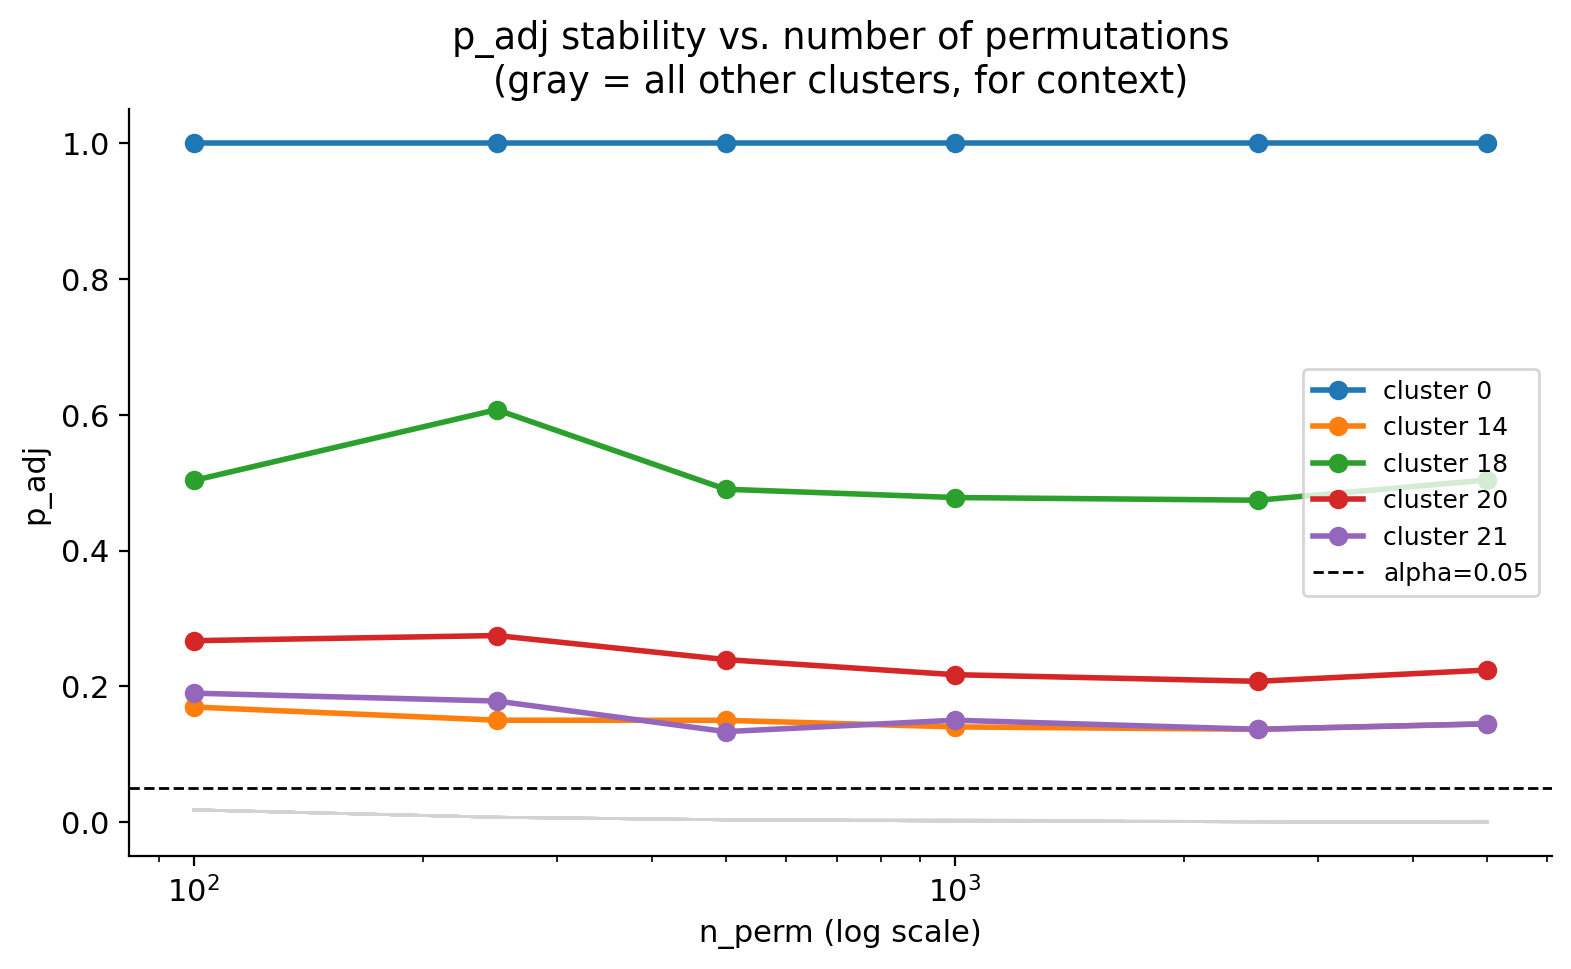
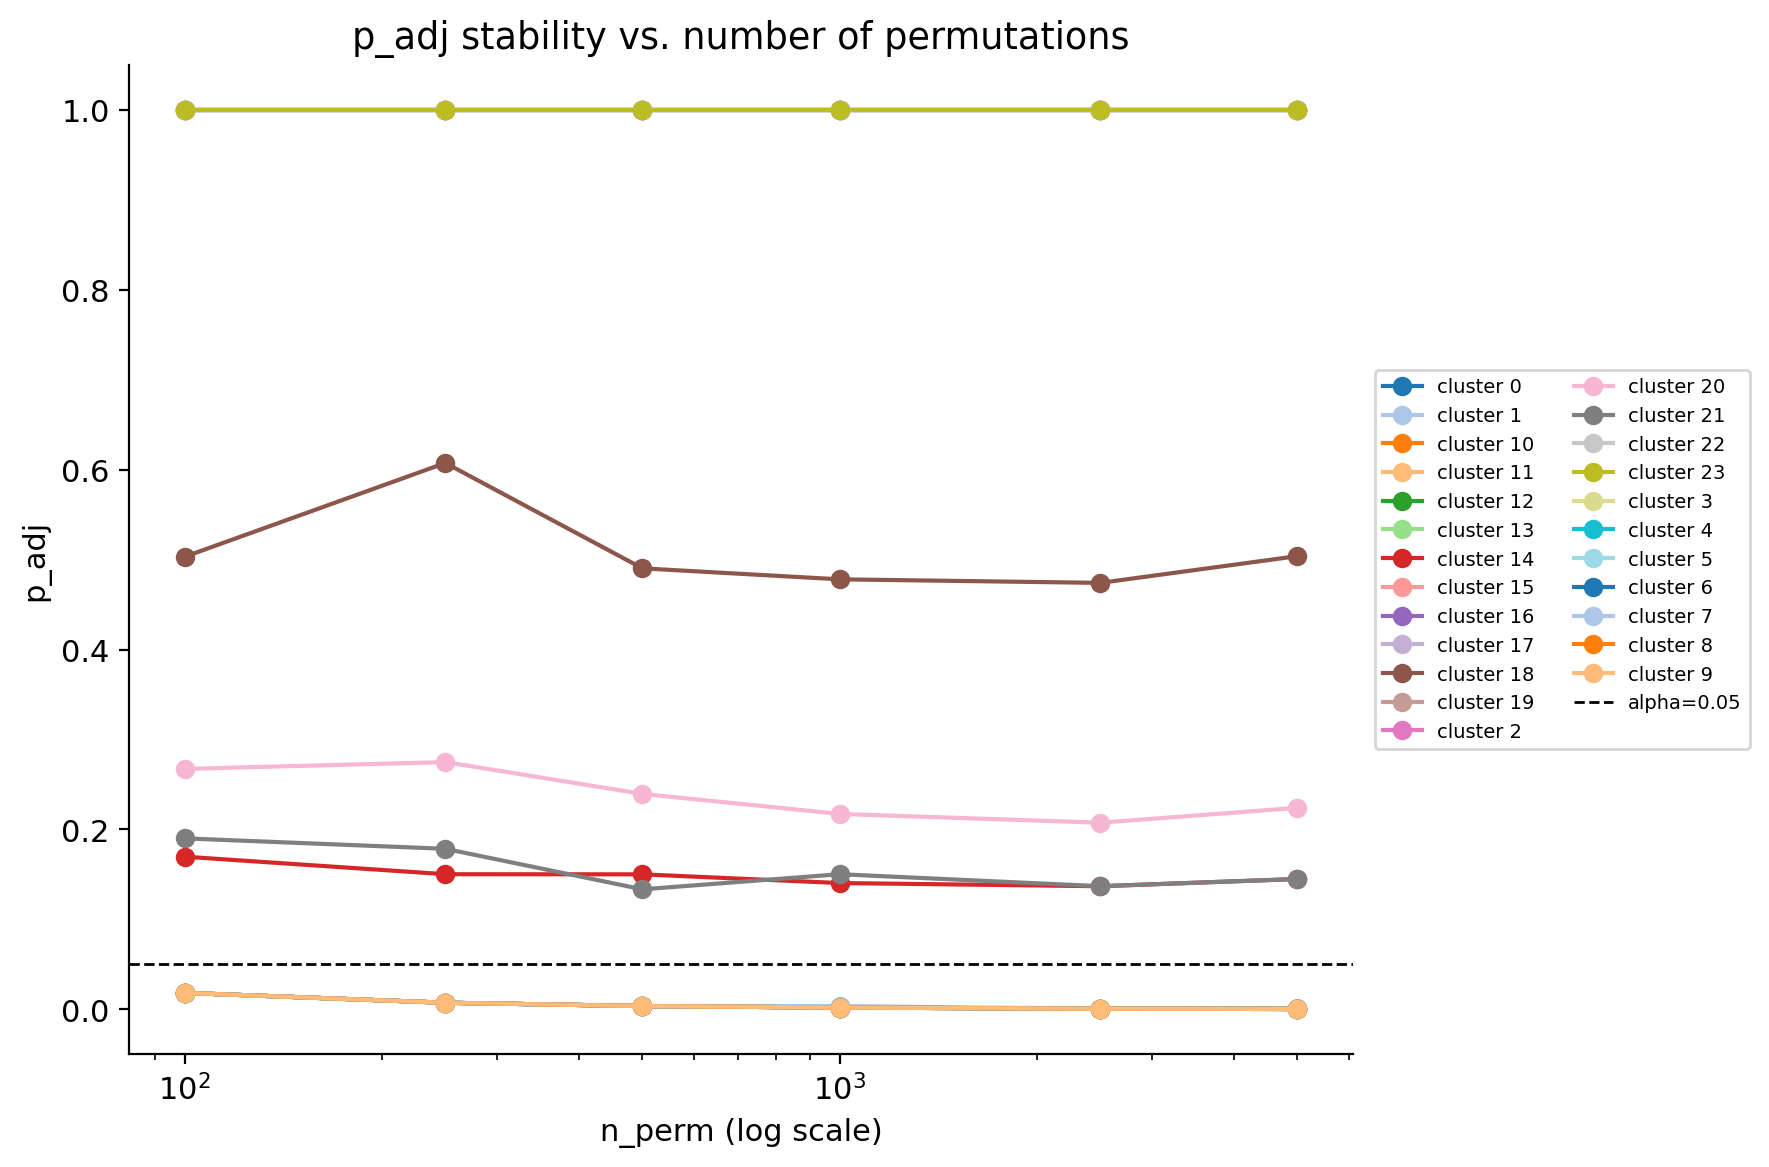
Fixed figures

Changed region(s): [[0.0, 0.0, 0.9669, 0.9907], [0.1871, 0.3096, 0.9981, 0.6502]]

diff --git a/results/methods/global_vs_pairwise.py b/results/methods/global_vs_pairwise.py
@@ -4,27 +4,28 @@ using the finalized default parameters (lam=0.3, resolution=1.5).
 """
 
 from __future__ import annotations
-
+ 
 import os
-
+ 
 import matplotlib.pyplot as plt
 import numpy as np
 import pandas as pd
-
+ 
 from spatialsubtypes import augment_features, build_spatial_graph, cluster_leiden
 from spatialsubtypes.validate import restrict_to_target, spatial_validate
 from results.shared import FIGURES_ROOT, SPATIAL_KEY, get_target_mask, load_full_tissue, savefig
-
+ 
 GRAPH_KWARGS = dict(mode="delaunay", decay=None)
 LAM = 0.3
-RESOLUTION = 1.5
+RESOLUTION = 1.5 
 N_PERM = 1000
-
+ALPHA = 0.05
+ 
 def main():
     adata = load_full_tissue()
     target_mask = get_target_mask(adata)
     print(f"Target population: {target_mask.sum()} macrophage bins")
-
+ 
     W_full = build_spatial_graph(adata, spatial_key=SPATIAL_KEY, **GRAPH_KWARGS)
     reference_expression = augment_features(
         adata, W_full, lam=0.0, target_mask=target_mask, key_added="ref"
@@ -32,9 +33,9 @@ def main():
     X_aug = augment_features(adata, W_full, lam=LAM, target_mask=target_mask, key_added="main")
     raw_labels = cluster_leiden(X_aug, resolution=RESOLUTION)
     print(f"Raw clustering: {len(set(raw_labels))} clusters")
-
+ 
     W_target = restrict_to_target(W_full, target_mask)
-
+ 
     _, stats_global = spatial_validate(
         raw_labels, W_target, test_mode="global", action="flag", n_perm=N_PERM,
     )
@@ -42,39 +43,76 @@ def main():
         raw_labels, W_target, test_mode="pairwise", action="flag", n_perm=N_PERM,
         reference_expression=reference_expression,
     )
-
+ 
     n_sig_global = int(stats_global["significant"].sum())
     n_sig_pairwise = int(stats_pairwise["significant"].sum())
     print(f"\nGlobal test:   {n_sig_global}/{len(stats_global)} clusters significant")
     print(f"Pairwise test: {n_sig_pairwise}/{len(stats_pairwise)} clusters significant")
-
+ 
     out_dir = os.path.join(FIGURES_ROOT, "methods")
     os.makedirs(out_dir, exist_ok=True)
-    stats_global.to_csv(os.path.join(out_dir, "global_vs_pairwise_global.csv"), index=False)
-    stats_pairwise.to_csv(os.path.join(out_dir, "global_vs_pairwise_pairwise.csv"), index=False)
-
+ 
     merged = stats_global[["cluster", "p_adj"]].merge(
         stats_pairwise[["cluster", "p_adj"]], on="cluster", suffixes=("_global", "_pairwise")
     )
-    merged["-log10_p_global"] = -np.log10(merged["p_adj_global"].clip(lower=1e-4))
-    merged["-log10_p_pairwise"] = -np.log10(merged["p_adj_pairwise"].clip(lower=1e-4))
-
-    fig, ax = plt.subplots(figsize=(8, 4.5))
-    x = np.arange(len(merged))
-    width = 0.35
-    ax.bar(x - width / 2, merged["-log10_p_global"], width, label="global")
-    ax.bar(x + width / 2, merged["-log10_p_pairwise"], width, label="pairwise")
-    ax.axhline(-np.log10(0.05), color="black", linestyle="--", linewidth=1, label="alpha=0.05")
-    ax.set_xticks(x)
-    ax.set_xticklabels(merged["cluster"], rotation=45, ha="right")
-    ax.set_ylabel("-log10(p_adj)")
-    ax.set_title(f"Validation test mode comparison (resolution={RESOLUTION})")
-    ax.legend()
+    merged["sig_global"] = merged["p_adj_global"] < ALPHA
+    merged["sig_pairwise"] = merged["p_adj_pairwise"] < ALPHA
+ 
+    def category(row):
+        if row["sig_global"] and row["sig_pairwise"]:
+            return "agree: significant"
+        if not row["sig_global"] and not row["sig_pairwise"]:
+            return "agree: not significant"
+        if row["sig_global"] and not row["sig_pairwise"]:
+            return "pairwise downgrades"
+        return "global downgrades"
+ 
+    merged["category"] = merged.apply(category, axis=1)
+    print("\n" + merged[["cluster", "p_adj_global", "p_adj_pairwise", "category"]].to_string(index=False))
+ 
+    n_disagree = (merged["category"] == "pairwise downgrades").sum()
+    print(f"\n{n_disagree}/{len(merged)} clusters: significant under global, "
+          f"NOT significant under pairwise")
+ 
+    merged["neglog10_global"] = -np.log10(merged["p_adj_global"].clip(lower=1e-4))
+    merged["neglog10_pairwise"] = -np.log10(merged["p_adj_pairwise"].clip(lower=1e-4))
+    alpha_line = -np.log10(ALPHA)
+    axis_max = max(merged["neglog10_global"].max(), merged["neglog10_pairwise"].max()) * 1.15
+ 
+    fig, ax = plt.subplots(figsize=(6.5, 6))
+ 
+    ax.axvspan(alpha_line, axis_max, color="tab:blue", alpha=0.04, zorder=0)
+    ax.axhspan(alpha_line, axis_max, color="tab:blue", alpha=0.04, zorder=0)
+ 
+    colors = {
+        "agree: significant": "tab:blue",
+        "agree: not significant": "tab:gray",
+        "pairwise downgrades": "tab:red",
+        "global downgrades": "tab:purple",
+    }
+    for cat, group in merged.groupby("category"):
+        ax.scatter(
+            group["neglog10_global"], group["neglog10_pairwise"],
+            color=colors[cat], label=f"{cat} (n={len(group)})", s=50, zorder=3, edgecolor="white",
+        )
+ 
+    ax.axvline(alpha_line, color="black", linestyle="--", linewidth=1, zorder=1)
+    ax.axhline(alpha_line, color="black", linestyle="--", linewidth=1, zorder=1)
+    ax.plot([0, axis_max], [0, axis_max], color="lightgray", linewidth=1, zorder=1, label="y = x (perfect agreement)")
+ 
+    ax.set_xlim(0, axis_max)
+    ax.set_ylim(0, axis_max)
+    ax.set_xlabel("-log10(p_adj), global test")
+    ax.set_ylabel("-log10(p_adj), pairwise test")
+    ax.set_title(
+        f"Global vs. pairwise validation (resolution={RESOLUTION})\n"
+        f"dashed lines = alpha={ALPHA}; shaded region = significant"
+    )
+    ax.legend(fontsize=8, loc="upper left")
     fig.tight_layout()
     savefig(fig, "global_vs_pairwise", "methods")
     plt.close(fig)
 
-    print("\n" + merged.to_string(index=False))
 
 if __name__ == "__main__":
     main()

diff --git a/results/methods/permutation_convergence.py b/results/methods/permutation_convergence.py
@@ -19,7 +19,7 @@ GRAPH_KWARGS = dict(mode="delaunay", decay=None)
 LAM = 0.3
 RESOLUTION = 1.5
 N_PERM_VALUES = [100, 250, 500, 1000, 2500, 5000]
-HIGHLIGHT_CLUSTERS = ["0", "14", "18", "20", "21"]
+ALPHA = 0.05
 
 def main():
     adata = load_full_tissue()
@@ -30,7 +30,8 @@ def main():
     reference_expression = augment_features(adata, W_full, lam=0.0, target_mask=target_mask, key_added="ref")
     X_aug = augment_features(adata, W_full, lam=LAM, target_mask=target_mask, key_added="main")
     labels = cluster_leiden(X_aug, resolution=RESOLUTION)
-    print(f"Fixed raw clustering: {len(set(labels))} clusters (reused across all n_perm values below)")
+    n_clusters = len(set(labels))
+    print(f"Fixed raw clustering: {n_clusters} clusters")
 
     W_target = restrict_to_target(W_full, target_mask)
 
@@ -43,36 +44,28 @@ def main():
         )
         for _, row in stats.iterrows():
             rows.append({"n_perm": n_perm, "cluster": str(row["cluster"]), "p_adj": row["p_adj"]})
-        highlighted = stats[stats["cluster"].astype(str).isin(HIGHLIGHT_CLUSTERS)]
-        print(highlighted[["cluster", "p_adj"]].to_string(index=False))
+        print(stats[["cluster", "p_adj"]].to_string(index=False))
 
     df = pd.DataFrame(rows)
     out_dir = os.path.join(FIGURES_ROOT, "methods")
     os.makedirs(out_dir, exist_ok=True)
-    df.to_csv(os.path.join(out_dir, "permutation_convergence.csv"), index=False)
 
-    fig, ax = plt.subplots(figsize=(8, 5))
+    fig, ax = plt.subplots(figsize=(9, 6))
+    cmap = plt.get_cmap("tab20")
 
-    for cluster, group in df.groupby("cluster"):
-        if cluster not in HIGHLIGHT_CLUSTERS:
-            ax.plot(group["n_perm"], group["p_adj"], color="lightgray", linewidth=1, zorder=1)
-
-    cmap = plt.get_cmap("tab10")
-    for i, cluster in enumerate(HIGHLIGHT_CLUSTERS):
-        group = df[df["cluster"] == cluster]
-        if len(group) == 0:
-            continue
+    for i, (cluster, group) in enumerate(df.groupby("cluster")):
+        group = group.sort_values("n_perm")
         ax.plot(
-            group["n_perm"], group["p_adj"], marker="o", color=cmap(i),
-            linewidth=2, zorder=2, label=f"cluster {cluster}",
+            group["n_perm"], group["p_adj"], marker="o", color=cmap(i % 20),
+            linewidth=1.5, label=f"cluster {cluster}",
         )
 
     ax.set_xscale("log")
     ax.set_xlabel("n_perm (log scale)")
     ax.set_ylabel("p_adj")
-    ax.axhline(0.05, color="black", linestyle="--", linewidth=1, label="alpha=0.05")
-    ax.set_title("p_adj stability vs. number of permutations\n(gray = all other clusters, for context)")
-    ax.legend(fontsize=9)
+    ax.axhline(ALPHA, color="black", linestyle="--", linewidth=1, label=f"alpha={ALPHA}")
+    ax.set_title(f"p_adj stability vs. number of permutations")
+    ax.legend(fontsize=7, ncol=2, loc="center left", bbox_to_anchor=(1.01, 0.5))
     fig.tight_layout()
     savefig(fig, "permutation_convergence", "methods")
     plt.close(fig)

diff --git a/results/methods/mode_x_decay.py b/results/methods/mode_x_decay.py
@@ -96,10 +96,6 @@ def main():
     df = pd.DataFrame(rows)
     out_dir = os.path.join(FIGURES_ROOT, "methods")
     os.makedirs(out_dir, exist_ok=True)
-    out_csv = os.path.join(out_dir, "mode_decay_grid.csv")
-    df.to_csv(out_csv, index=False)
-    print(f"\nSaved table: {out_csv}")
-    print(df.to_string(index=False))
 
     # ---- Grouped bar chart: ARI by mode, grouped by decay ----
     fig, ax = plt.subplots(figsize=(7, 4.5))

diff --git a/results/methods/lambda_sweep.py b/results/methods/lambda_sweep.py
@@ -65,8 +65,6 @@ def main():
     df = pd.DataFrame(rows)
     out_dir = os.path.join(FIGURES_ROOT, "methods")
     os.makedirs(out_dir, exist_ok=True)
-    df.to_csv(os.path.join(out_dir, "lambda_sweep.csv"), index=False)
-    print("\n" + df.to_string(index=False))
 
     fig, (ax1, ax2) = plt.subplots(1, 2, figsize=(11, 4.5))
 

diff --git a/results/methods/radius_sweep.py b/results/methods/radius_sweep.py
@@ -58,8 +58,6 @@ def main():
     df = pd.DataFrame(rows)
     out_dir = os.path.join(FIGURES_ROOT, "methods")
     os.makedirs(out_dir, exist_ok=True)
-    df.to_csv(os.path.join(out_dir, "radius_sweep.csv"), index=False)
-    print("\n" + df.to_string(index=False))
 
     fig, (ax1, ax2) = plt.subplots(1, 2, figsize=(11, 4.5))
 
